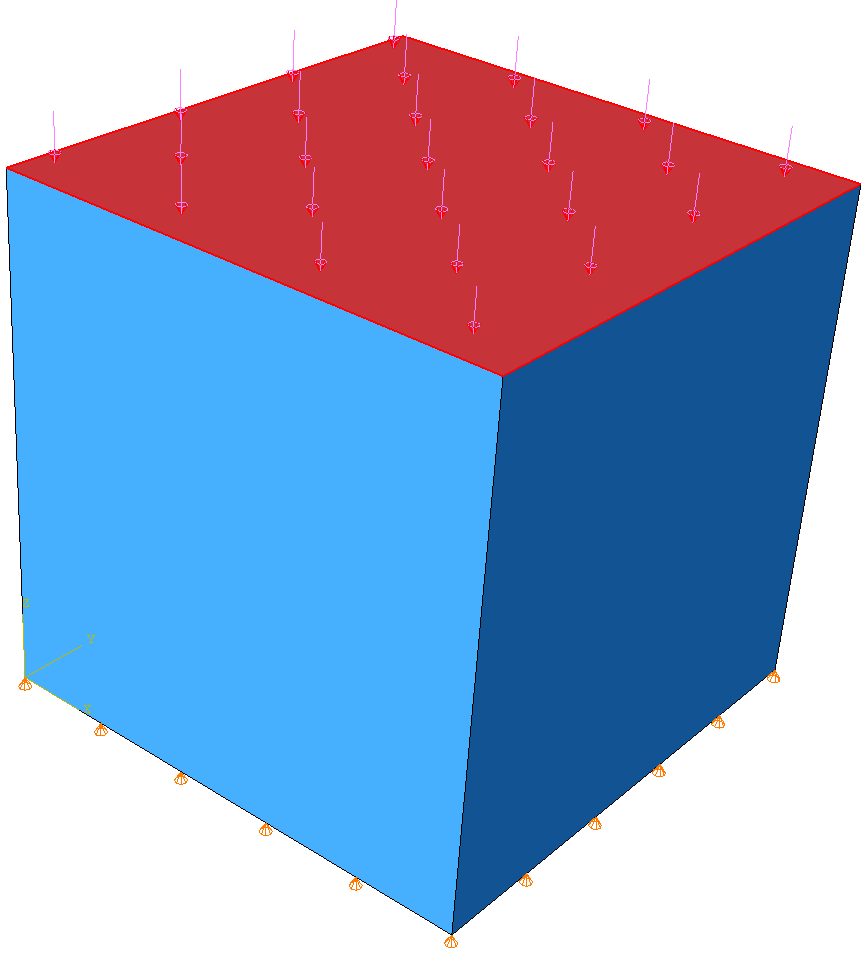
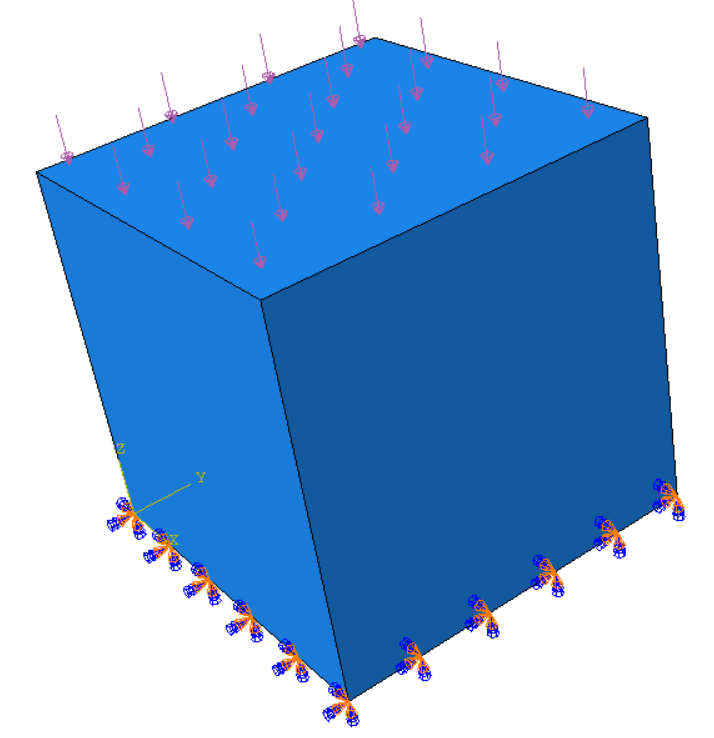
Update the model figure

diff --git a/examples/Parameter-Identification/optimize.py b/examples/Parameter-Identification/optimize.py
@@ -6,6 +6,12 @@ This is a simple example of parameter identification. The compression model is a
 The lower surface is fixed and the upper surface is loaded with a pressure of 100 Pa. The goal is to find the Young's
 modulus of the material that gives a maximum displacement of -0.1 m.
 
+.. figure:: /images/model.png
+    :width: 50%
+    :align: center
+
+    A simple compression model.
+
 Theoretically, the Young's modulus of the material can be calculated with the following equation:
 
 .. math::

diff --git a/examples/Compression/compression.py b/examples/Compression/compression.py
@@ -3,6 +3,12 @@ Compression Model
 =================
 
 A simple example to establish a compression model.
+
+.. figure:: /images/model.png
+    :width: 50%
+    :align: center
+
+    A simple compression model.
 """
 
 from abaqus import *
